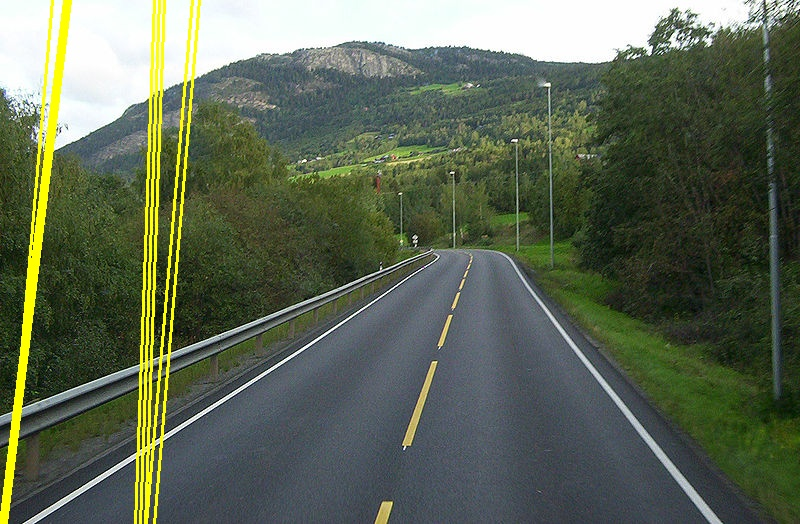
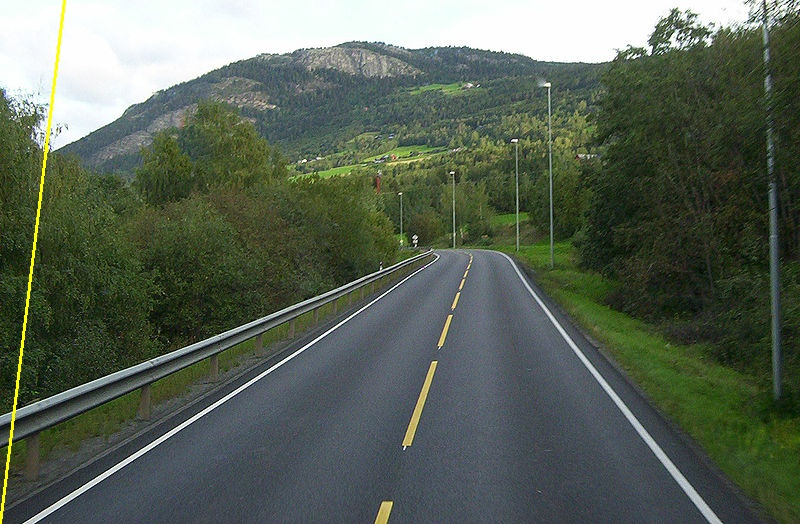
getting one hough line

Changed region(s): [[0.1562, 0.0, 0.25, 1.0], [0.0, 0.0, 0.0938, 1.0]]

diff --git a/lane_keeping_ws/src/classic_vision/src/VisionNode.cpp b/lane_keeping_ws/src/classic_vision/src/VisionNode.cpp
@@ -48,50 +48,66 @@ void VisionNode::processImage(sensor_msgs::msg::Image::SharedPtr img)
         // Upload the image to GPU
         cuda::GpuMat gpu_img;
         gpu_img.upload(converted->image);
-        RCLCPP_INFO(this->get_logger(), "Image uploaded to GPU");
 
         // Convert to grayscale
-        cuda::cvtColor(gpu_img, gpu_img, COLOR_BGR2GRAY);
-        RCLCPP_INFO(this->get_logger(), "Converted to grayscale");
-        Mat cpu_colored;
-        gpu_img.download(cpu_colored);
-        imwrite("processed/grey.jpg", cpu_colored);
+        cuda::GpuMat gpu_gray;
+        cuda::cvtColor(gpu_img, gpu_gray, COLOR_BGR2GRAY);
 
         // Apply Gaussian blur
-        auto gaussian_filter =
-            cuda::createGaussianFilter(CV_8UC1, CV_8UC1, {3, 3}, 1);
-        gaussian_filter->apply(gpu_img, gpu_img);
-        RCLCPP_INFO(this->get_logger(), "Applied Gaussian blur");
-        Mat cpu_filtered;
-        gpu_img.download(cpu_filtered);
-        imwrite("processed/gaussian.jpg", cpu_filtered);
+        cuda::GpuMat gpu_blurred;
+        Ptr<cuda::Filter> gaussian_filter =
+            cuda::createGaussianFilter(CV_8UC1, CV_8UC1, Size(3, 3), 1);
+        gaussian_filter->apply(gpu_gray, gpu_blurred);
+
+        // Edge detection
+        // cuda::GpuMat gpu_edges;
+        // auto canny = cuda::createCannyEdgeDetector(50, 150);
+        // canny->detect(gpu_blurred, gpu_edges);
 
         // Detect lines using Hough Transform
+        cuda::GpuMat gpu_lines;
         auto line_detector =
-            cuda::createHoughSegmentDetector(1, CV_PI / 180, 50, 50, 10);
-        cuda::GpuMat d_lines;
-        line_detector->detect(gpu_img, d_lines);
-        RCLCPP_INFO(this->get_logger(), "Detected lines");
+            cuda::createHoughSegmentDetector(1.0f,           // rho
+                                             CV_PI / 180.0f, // theta
+                                             50, // minimum line length
+                                             5,  // maximum line gap
+                                             300 // maximum number of lines
+            );
+        line_detector->detect(gpu_gray, gpu_lines);
 
         // Download lines from GPU to CPU
+        Mat lines_cpu;
+        gpu_lines.download(lines_cpu);
+
+        // Convert to vector of Vec4i
         std::vector<Vec4i> lines;
-        if (!d_lines.empty())
+        lines.reserve(lines_cpu.size().width);
+        if (!lines_cpu.empty())
         {
-            lines.resize(d_lines.cols);
-            Mat lines_cpu(d_lines.size(), d_lines.type(), lines.data());
-            d_lines.download(lines_cpu);
+            // Debug info
+            RCLCPP_INFO(this->get_logger(), "Lines matrix size: %d x %d",
+                        lines_cpu.rows, lines_cpu.cols);
+
+            gpu_lines.row(0).download(Mat(lines).reshape(4, 1));
         }
 
-        // Draw lines on the original image
+        // Draw lines on a copy of the original image
+        Mat result = converted->image.clone();
         for (const auto& line : lines)
         {
-            cv::line(converted->image, Point(line[0], line[1]),
-                     Point(line[2], line[3]), Scalar(0, 255, 255), 2);
+            cv::line(result, Point(line[0], line[1]), Point(line[2], line[3]),
+                     Scalar(0, 255, 255), 2);
         }
 
-        // Display the result
-        imwrite("processed/out.jpg", converted->image);
-        RCLCPP_INFO(this->get_logger(), "Image processing complete");
+        // Save intermediate results for debugging
+        Mat cpu_gray, cpu_edges;
+        gpu_gray.download(cpu_gray);
+        // gpu_edges.download(cpu_edges);
+        imwrite("processed/gray.jpg", cpu_gray);
+        // imwrite("processed/edges.jpg", cpu_edges);
+        imwrite("processed/result.jpg", result);
+
+        RCLCPP_INFO(this->get_logger(), "Detected %zu lines", lines.size());
     }
     catch (const cv::Exception& e)
     {
